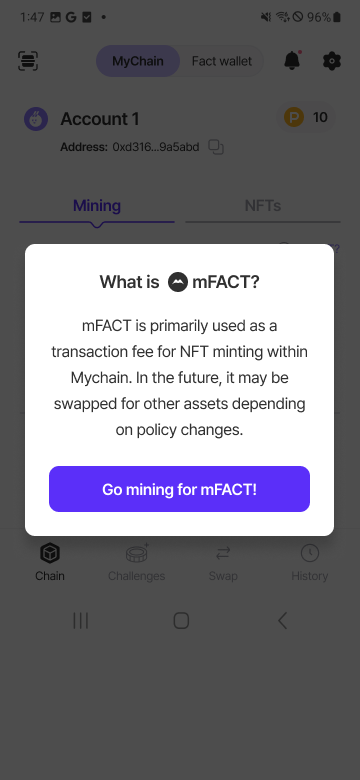
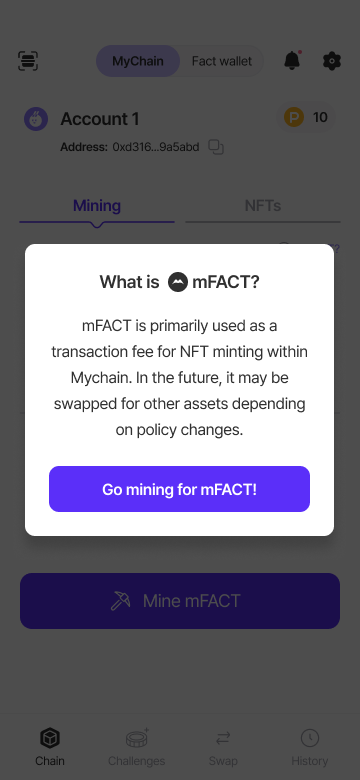
Mychain 화면 상하단 시스템 UI 제거와 탭 설명 정리
- 15개 화면을 상태 표시줄·안드로이드 버튼이 없는 버전으로 교체
- 마이닝 히스토리를 기록이 여러 개인 화면으로 변경
- Overview 설명을 TAB 1·2 카드 안으로 옮기고 NFT 관리 문장 추가

diff --git a/projects/mychain.html b/projects/mychain.html
@@ -57,23 +57,20 @@
       <p class="personal-key">Personal Blockchain</p>
       <p>Mychain은 한마디로 <b>“내 손 안의 아주 작은 블록체인”</b>입니다. 휴대폰에서 나만의 작은 블록체인을 만들고 관리할 수 있으며, 앞으로 다양한 앱을 연동해 <b>나의 정보를 직접 관리하는 확장성 있는 앱</b>을 목표로 합니다. 그래서 앱 아이콘도 Personal을 뜻하는 사람 형태와 FACT의 체크 심볼을 결합해 만들었습니다.</p>
     </div>
-    <div class="cols-2">
-      <p>Mychain은 FACT 코인을 알리기 위해 만든 개인용 블록체인 앱입니다. 사용자는 <b>Mychain 탭</b>에서 광고를 보고 마이닝을 해 재화를 모으고, <b>Fact wallet 탭</b>에서 코인을 보관하고 송금합니다.</p>
-      <p>원래 FACT를 관리하는 지갑(Fact wallet)은 <b>구글 크롬 확장 프로그램으로만</b> 존재했습니다. 이 지갑을 Mychain과 통합해 앱으로 출시하면서, 마이닝으로 들어온 사용자가 자연스럽게 지갑까지 쓰게 되는 구조를 만들었습니다.</p>
-    </div>
-
     <div class="tab-cards">
       <article class="tab-card">
         <p class="tab-card-label">TAB 1</p>
         <h3>MyChain</h3>
-        <p>마이닝 버튼 → 광고 시청 → <b>mFACT</b> 획득. 챌린지로 <b>Point</b>를 모으고, Swap에서 Point를 FACT로 교환합니다.</p>
+        <p>마이닝 버튼 → 광고 시청 → <b>mFACT</b> 획득. 챌린지로 <b>Point</b>를 모으고, Swap에서 Point를 FACT로 교환합니다. 또한 NFT 등 내 디지털 정보를 보관 및 관리합니다.</p>
         <ul class="chips"><li>Chain</li><li>Challenges</li><li>Swap</li><li>History</li></ul>
+        <p class="tab-card-note">Mychain은 FACT 코인을 알리기 위해 만든 개인용 블록체인 앱입니다. 사용자는 이 탭에서 광고를 보고 마이닝을 해 재화를 모으고, 모은 코인은 <b>Fact wallet 탭</b>에서 보관하고 송금합니다.</p>
       </article>
       <article class="tab-card">
         <p class="tab-card-label">TAB 2</p>
         <h3>Fact wallet</h3>
         <p>FACT 코인과 NFT를 보관하고, 주소를 입력해 송금하고, QR로 받을 수 있는 가벼운 지갑입니다.</p>
         <ul class="chips"><li>Wallet</li><li>Send</li><li>Receive</li><li>History</li></ul>
+        <p class="tab-card-note">원래 FACT를 관리하는 지갑(Fact wallet)은 <b>구글 크롬 확장 프로그램으로만</b> 존재했습니다. 이 지갑을 Mychain과 통합해 앱으로 출시하면서, 마이닝으로 들어온 사용자가 자연스럽게 지갑까지 쓰게 되는 구조를 만들었습니다.</p>
       </article>
     </div>
   </section>

diff --git a/projects/mychain.css b/projects/mychain.css
@@ -163,6 +163,8 @@
   margin-top: 64px;
 }
 .tab-card {
+  display: flex;
+  flex-direction: column;
   border-radius: 24px;
   padding: 40px;
   background: var(--gray-100);
@@ -176,6 +178,17 @@
 .tab-card h3 { font-size: 30px; margin: 8px 0 16px; letter-spacing: -0.02em; }
 .tab-card p { font-size: 16px; line-height: 1.7; }
 .chips { display: flex; flex-wrap: wrap; gap: 8px; margin-top: 24px; }
+/* 각 탭 카드 아래 부가 설명: 구분선 아래 작은 글씨 */
+.tab-card .tab-card-note {
+  margin-top: auto;              /* 두 카드의 설명 시작선을 맞춤 */
+  padding-top: 24px;
+  border-top: 1px solid var(--gray-300);
+  font-size: 15px;
+  line-height: 1.75;
+  color: #6d6a78;
+}
+.tab-card .chips { margin-bottom: 28px; }
+.tab-card-note b { color: #44424a; }
 .chips li {
   font-size: 13px;
   padding: 6px 14px;
